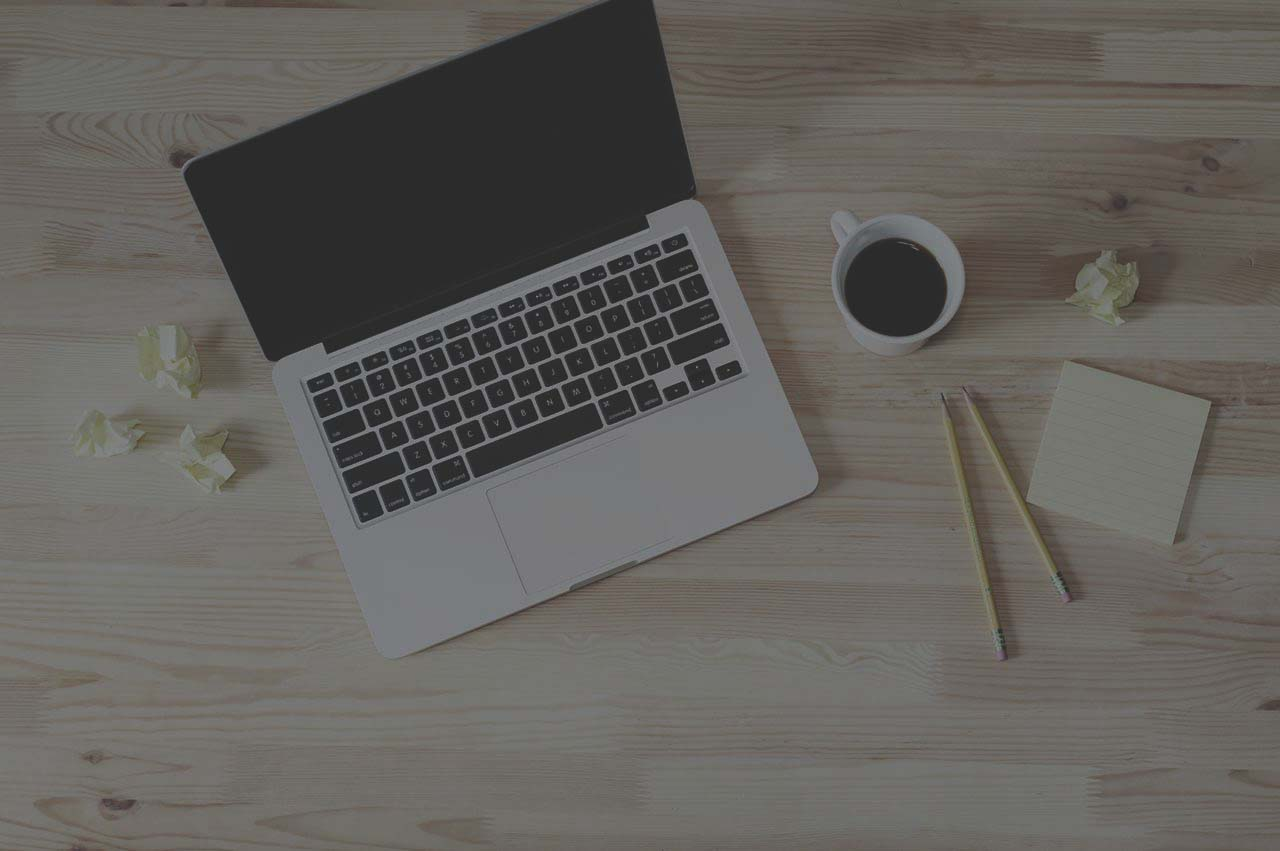
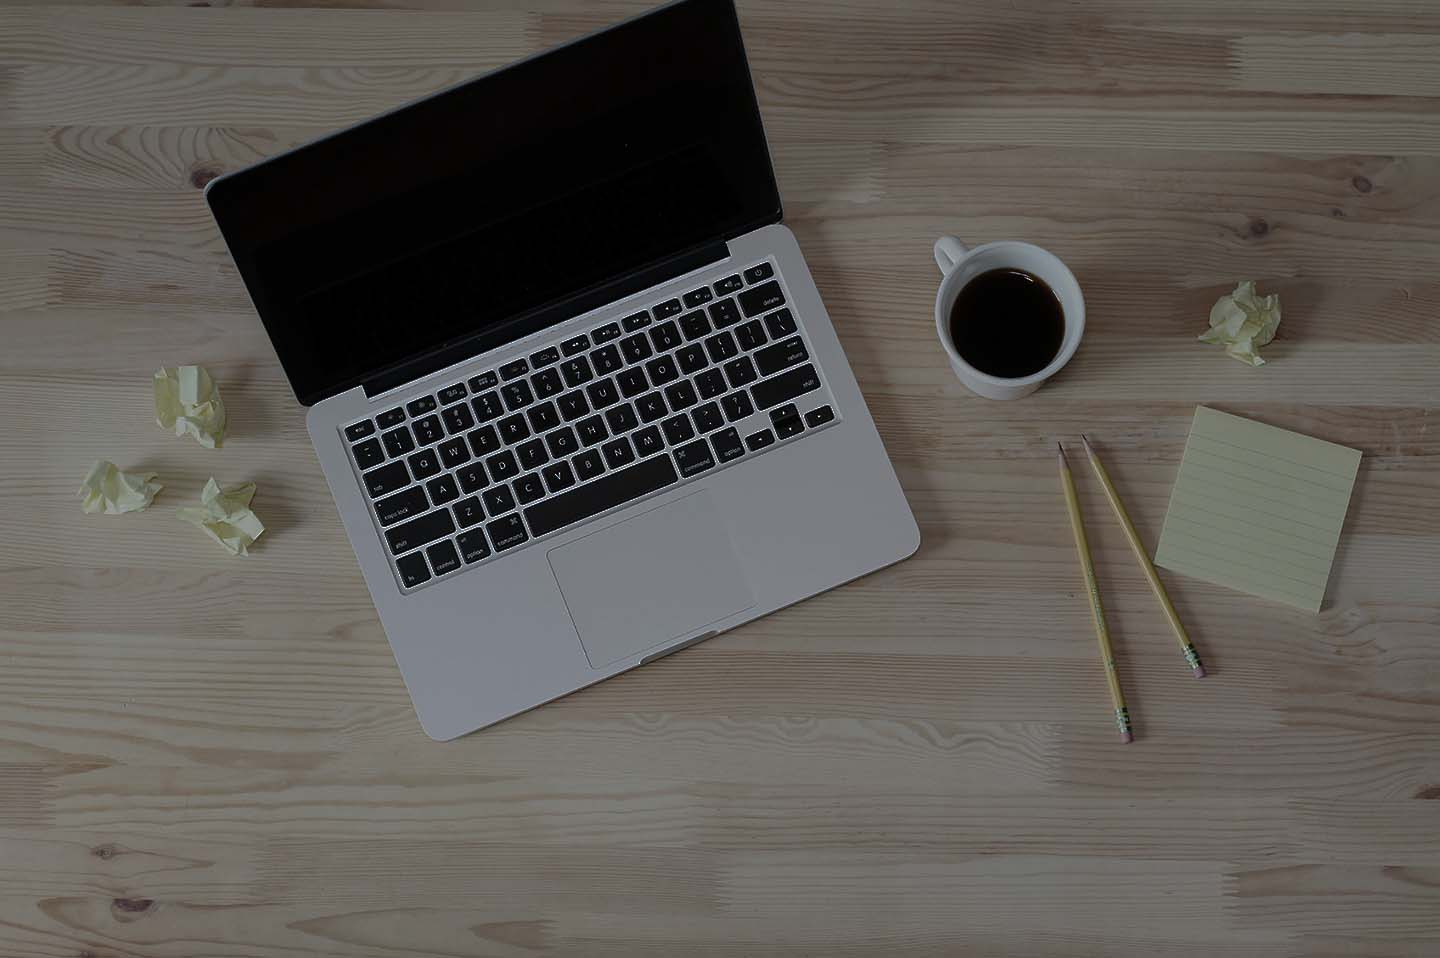
update
update background foto

Changed region(s): [[0.125, 0.0, 0.5938, 0.611], [0.6562, 0.275, 0.75, 0.3972]]

diff --git a/uilancer/public/style.css b/uilancer/public/style.css
@@ -191,190 +191,3 @@ h1 {
     font-size: 40px;
     color: #003366;
 }
-
-.page-header {
-    margin-top: 20px;
-}
-.user-menu {
-    display: inline-block;
-    margin-top: 28px;
-    margin-right: 50px;
-    float: right;
-    list-style: none;
-    padding: 0;
-}
-
-.user-menu a {
-    color: #003366;
-}
-
-.user-menu a:hover, .user-menu a:focus {
-    text-decoration: none;
-}
-
-.sidebar {
-    display: block;
-    background-color: #fff;
-    padding: 0;
-    display: none;
-}
-
-@media (min-width: 768px) {
-    .sidebar {
-        display: block;
-        position: fixed;
-        top: 70px;
-        bottom: 0;
-        left: 0;
-        z-index: 1000;
-        display: block;
-        margin: 0;
-        padding: 0;
-        overflow-x: hidden;
-        overflow-y: auto; 
-        background-color: #fff;
-        box-shadow: 1px 0px 10px rgba(0, 0, 0, .05);
-    }
-    .navbar-header {
-        width: 100%;
-    }
-}
-
-.sidebar ul.nav a:hover, 
-.sidebar ul.nav li.parent ul li a:hover {
-    text-decoration: none;
-    background-color: #e9ecf2;
-}
-
-.sidebar ul.nav .active a, .sidebar ul.nav li.parent a.active,
-.sidebar ul.nav .active > a:hover, .sidebar ul.nav li.parent a.active:hover,
-.sidebar ul.nav .active > a:focus, .sidebar ul.nav li.parent a.active:focus {
-    color: #fff;
-    /*background-color: #30a5ff;*/
-    background-color: #003366;
-}*/
-
-.sidebar ul.nav ul,
-.sidebar ul.nav ul li {
-    list-style: none;
-    list-style-type: none;
-}
-
-.sidebar ul.nav ul.children {
-    width: auto;
-    padding: 0;
-    margin: 0;
-    background: #f9f9f9;
-}
-
-.sidebar ul.nav ul.children li a {
-    height: 40px;
-    background: #f9f9f9;
-    color: #003366!important;
-}
-
-.sidebar ul.nav li.current a {
-    background-color: #30a5ff;
-    color: #fff!important;
-}
-
-.sidebar ul.nav li.parent ul li a {
-    border: none;
-    display: block;
-    padding-left: 30px;
-    line-height: 40px;
-}
-
-.sidebar span.glyphicon {
-    margin-right: 10px;
-}
-
-.sidebar .glyph, .user-menu .glyph {
-    height: 16px;
-    width: 16px;
-    margin: 0 10px 0 0;
-    stroke-width: 3px;
-}
-
-.user-menu .glyph {
-    stroke-width: 4px;
-}
-
-ul.msg_list li {
-  background: #f7f7f7;
-  padding: 5px;
-  display: flex;
-  margin: 6px 6px 0;
-  width: 96% !important;
-}
-ul.msg_list li:last-child {
-  margin-bottom: 6px;
-  padding: 10px;
-}
-ul.msg_list li a {
-  padding: 3px 5px !important;
-}
-ul.msg_list li a .image img {
-  border-radius: 2px 2px 2px 2px;
-  -webkit-border-radius: 2px 2px 2px 2px;
-  float: left;
-  margin-right: 10px;
-  width: 10%;
-}
-ul.msg_list li a .time {
-  font-size: 11px;
-  font-style: italic;
-  font-weight: bold;
-  position: absolute;
-  right: 35px;
-}
-ul.msg_list li a .message {
-  display: block !important;
-  font-size: 11px;
-}
-.dropdown-menu.msg_list {
-  width: 300px !important;
-}
-.dropdown-menu.msg_list span {
-  white-space: normal;
-}
-.dropdown-menu {
-  border: medium none;
-  box-shadow: none;
-  display: none;
-  float: left;
-  font-size: 14px;
-  left: 0;
-  list-style: none outside none;
-  padding: 0;
-  position: absolute;
-  text-shadow: none;
-  top: 100%;
-  z-index: 1000;
-  border: 1px solid #D9DEE4;
-  border-top-left-radius: 0;
-  border-top-right-radius: 0;
-  
-}
-.dropdown-menu>li>a {
-  color: #5A738E;
-}
-.navbar-nav .open .dropdown-menu {
-  position: absolute;
-  background: #fff;
-  margin-top: 0;
-  border: 1px solid #D9DEE4;
-  -webkit-box-shadow: none;
-}
-.info-number .badge {
-  font-size: 10px;
-  font-weight: normal;
-  line-height: 13px;
-  padding: 2px 6px;
-  position: absolute;
-  right: 0px;
-  top: -8px;
-}
-#notifikasi {
-    padding-left: 20px;
-}
